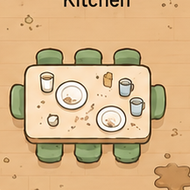
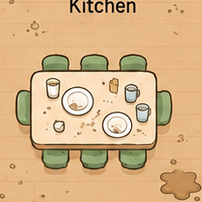
fix: lr-floor shift right, kitchen-table 16% crop

diff --git a/src/data/chores.ts b/src/data/chores.ts
@@ -20,11 +20,11 @@ export interface ChoreDefinition {
 }
 
 export const CHORE_DEFINITIONS: ChoreDefinition[] = [
-  { id: 'kitchen-sink',  label: 'Kitchen Sink',     room: 'Kitchen',           top: '15.2%', left: '33%', sceneIndex: 0, messEmoji: '🍽️', cropWidthPct: 17.3 },
+  { id: 'kitchen-sink',  label: 'Kitchen Sink',     room: 'Kitchen',           top: '15.4%', left: '33%', sceneIndex: 0, messEmoji: '🍽️', cropWidthPct: 17.3 },
   { id: 'kitchen-floor', label: 'Kitchen Floor',     room: 'Kitchen',           top: '26.1%', left: '35%', sceneIndex: 2, messEmoji: '💧', cropWidthPct: 17.3 },
-  { id: 'kitchen-table', label: 'Kitchen Table',     room: 'Kitchen',           top: '38%', left: '35%', sceneIndex: 0, messEmoji: '🍽️', cropWidthPct: 15.0 },
-  { id: 'lr-floor',      label: 'Living Room Floor', room: 'Living Room',       top: '70%', left: '17%', sceneIndex: 2, messEmoji: '💧', cropWidthPct: 13.4 },
-  { id: 'hallway',       label: 'Hallway Floor',     room: 'Hallway',           top: '49.9%', left: '61.9%', sceneIndex: 2, messEmoji: '💧', cropWidthPct: 28 },
-  { id: 'bath1-sink',    label: 'Bathroom 1',        room: 'Bathroom 1',        top: '72%', left: '49.5%', sceneIndex: 3, messEmoji: '🧴', cropWidthPct: 10.2 },
-  { id: 'bath2-sink',    label: 'Bathroom 2',        room: 'Bathroom 2',        top: '72%', left: '73.2%', sceneIndex: 3, messEmoji: '🧴', cropWidthPct: 15.8 },
+  { id: 'kitchen-table', label: 'Kitchen Table',     room: 'Kitchen',           top: '38%', left: '35%', sceneIndex: 0, messEmoji: '🍽️', cropWidthPct: 16.0 },
+  { id: 'lr-floor',      label: 'Living Room Floor', room: 'Living Room',       top: '69%', left: '19%', sceneIndex: 2, messEmoji: '💧', cropWidthPct: 13.4 },
+  { id: 'hallway',       label: 'Hallway Floor',     room: 'Hallway',           top: '50%', left: '61.9%', sceneIndex: 2, messEmoji: '💧', cropWidthPct: 28 },
+  { id: 'bath1-sink',    label: 'Bathroom 1',        room: 'Bathroom 1',        top: '71.1%', left: '49.5%', sceneIndex: 3, messEmoji: '🧴', cropWidthPct: 10 },
+  { id: 'bath2-sink',    label: 'Bathroom 2',        room: 'Bathroom 2',        top: '71.1%', left: '73.2%', sceneIndex: 3, messEmoji: '🧴', cropWidthPct: 15.4 },
 ]